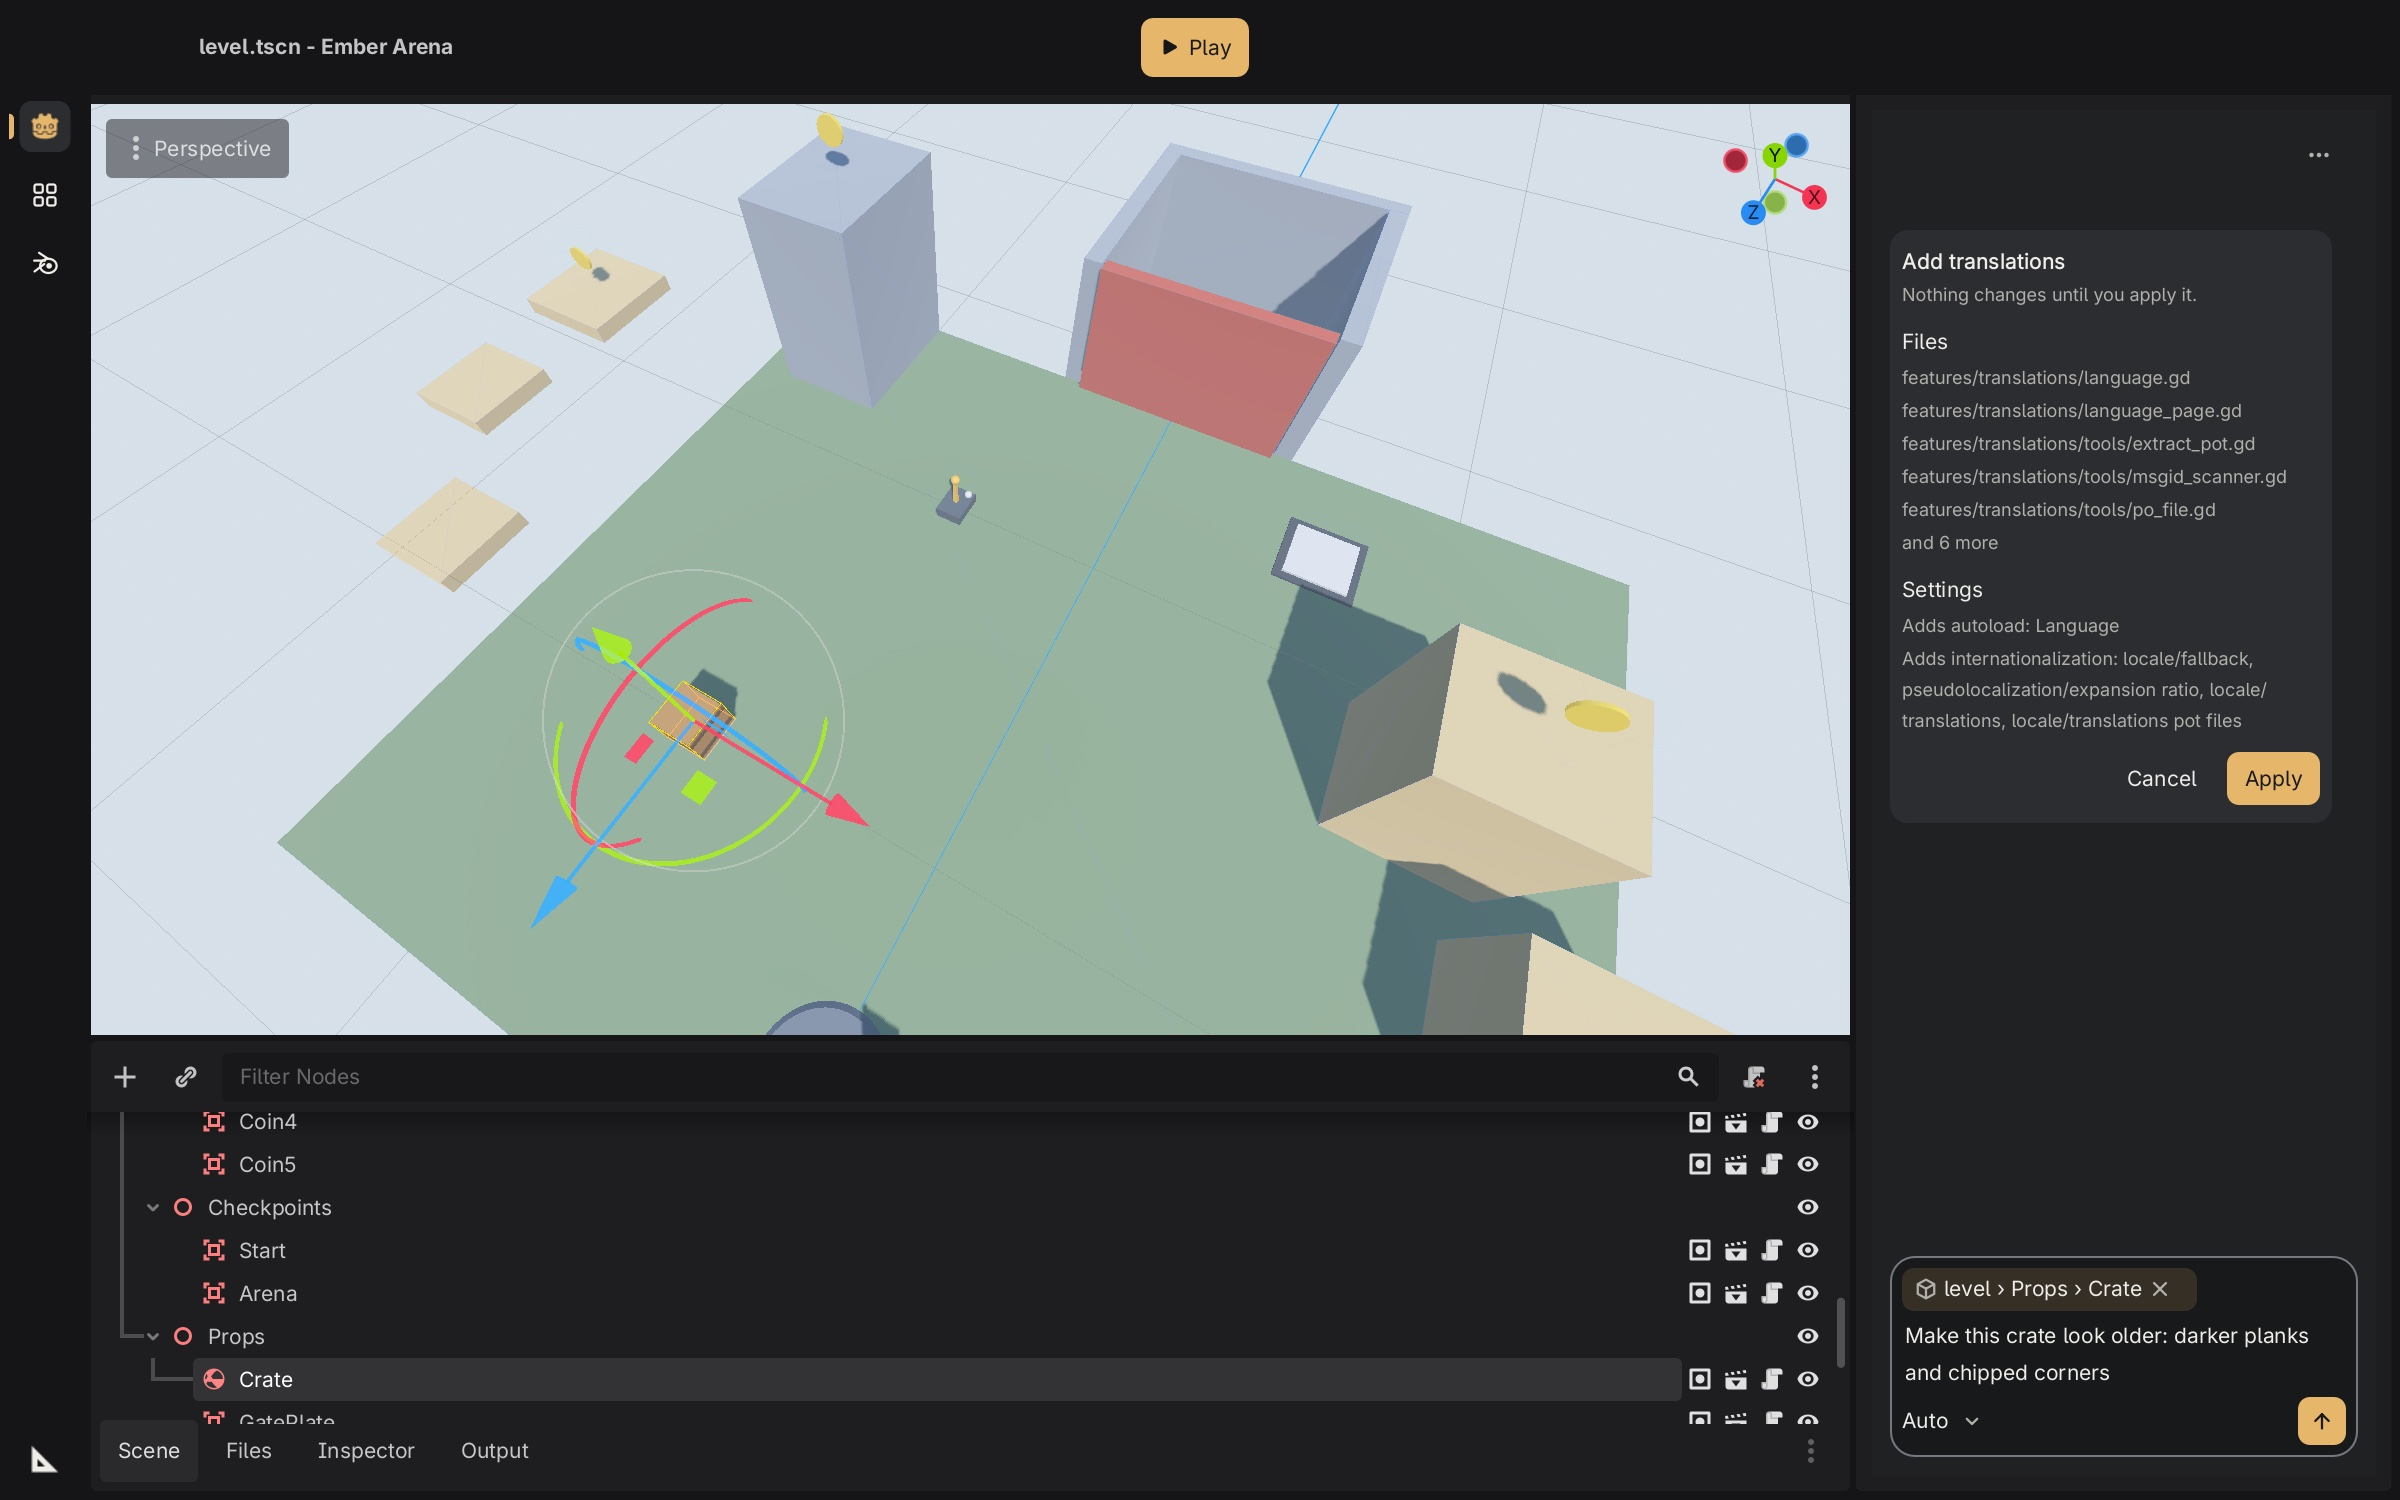
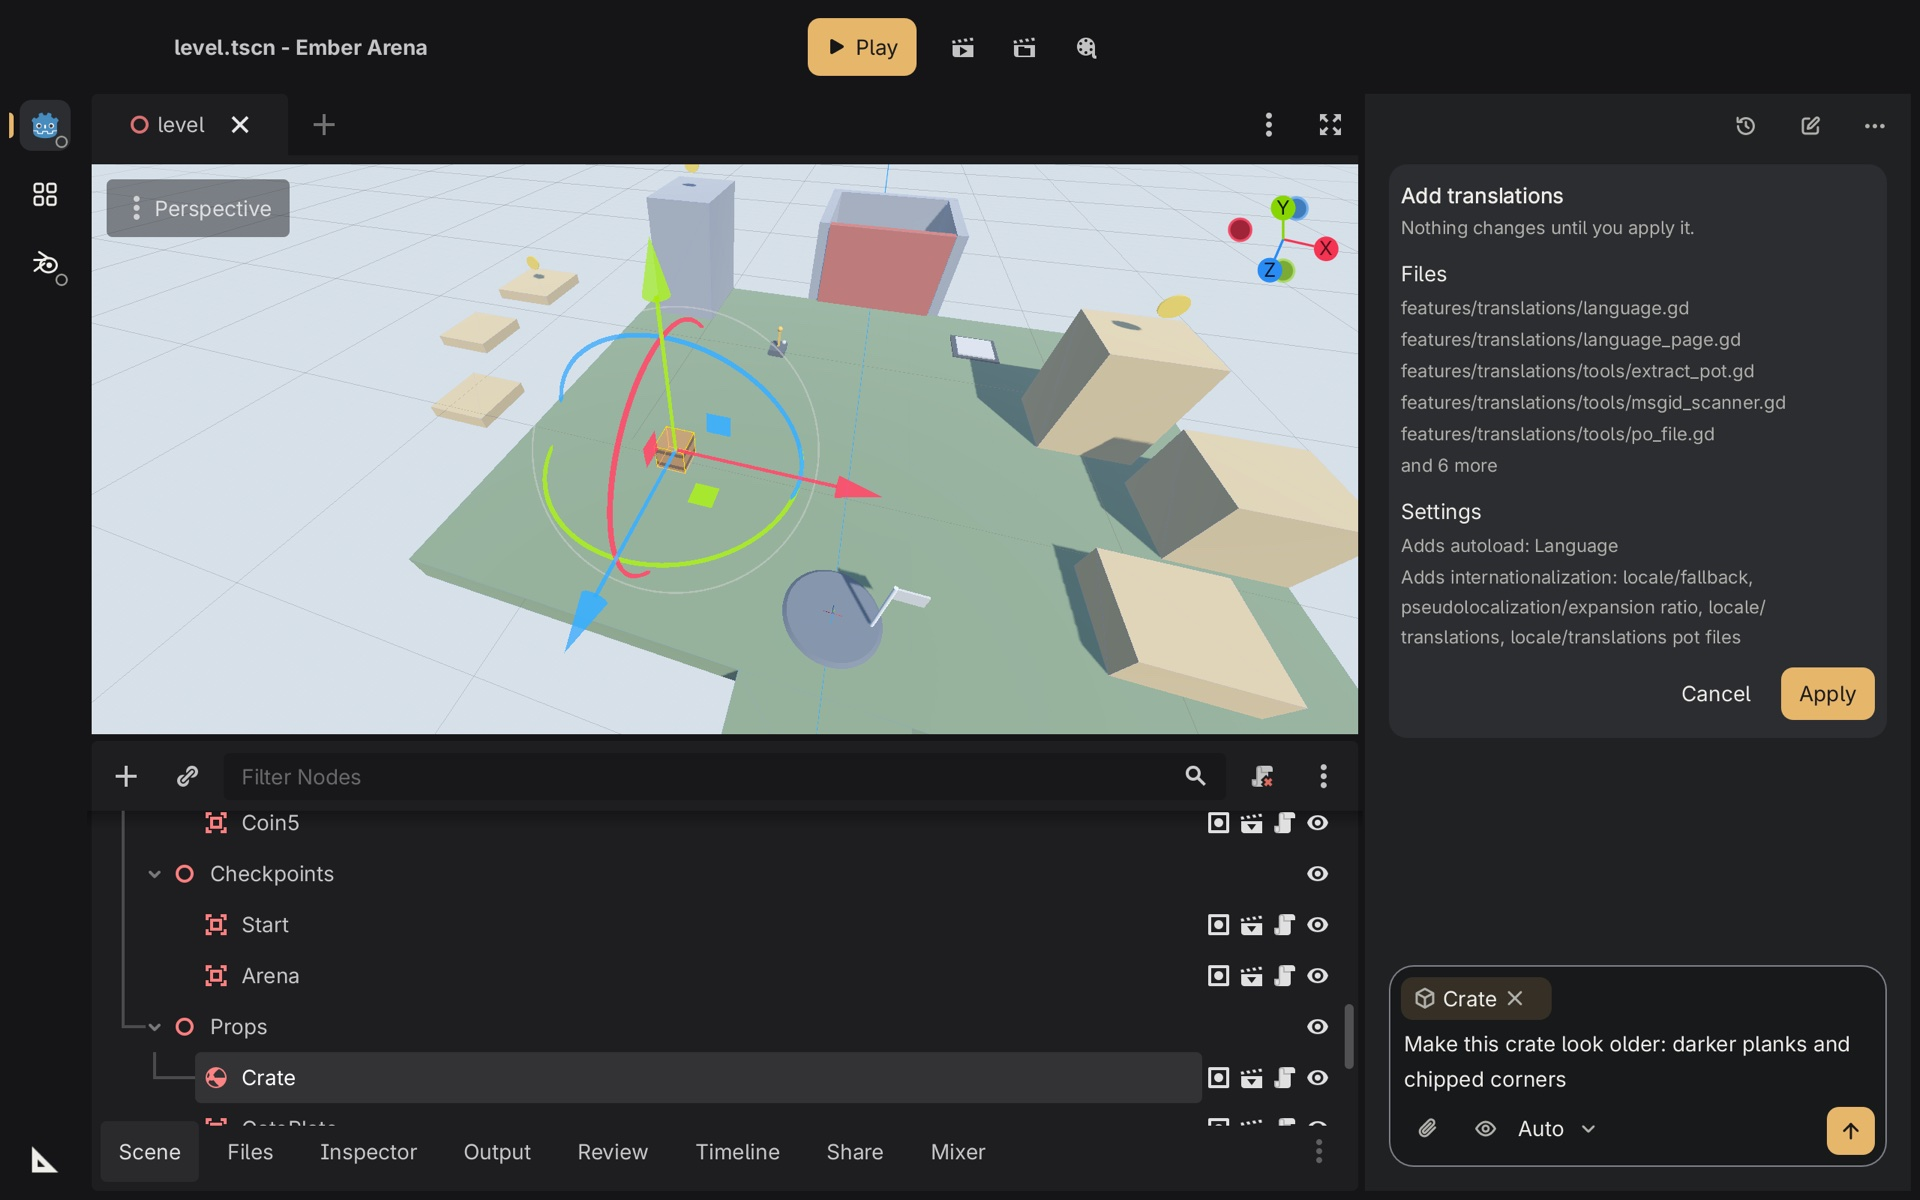
docs: README shows the 0.6 editor and drops the status section

diff --git a/README.md b/README.md
@@ -2,7 +2,7 @@
 
 **Made in the Joinery, not generated.**
 
-![The Joinery editor in its dark theme. The level of the third-person starting point is open in the 3D view, with the crate selected. The scene tree is below it and an icon rail on the left switches between Godot, the asset list and Blender. On the right, the Journeyman sidebar shows a plan card for adding translations, listing the files and settings it would add, with Cancel and Apply. Below the card, the message box holds the selected crate as a chip and a typed request to make the crate look older.](docs/images/joinery-editor.jpg)
+![The Joinery editor in its dark theme. The level of the third-person starting point is open in the 3D view, with the crate selected and its move and rotate handles showing. The scene tree is below it, above tabs for Files, Inspector, Output, Review, Timeline, Share and Mixer, and an icon rail on the left switches between Godot, the asset list and Blender. On the right, the Journeyman sidebar shows a plan card for adding translations, listing the files and settings it would add, with Cancel and Apply. Below the card, the message box holds the selected crate as a chip and a typed request to make the crate look older.](docs/images/joinery-editor.jpg)
 
 *A new third-person game in Joinery: the plan for adding translations waits for
 Apply, and a request about the selected crate is typed but not sent yet.*
@@ -17,25 +17,8 @@ Joinery does not use image, 3D, music or voice generators. Every asset is made
 in a real tool, kept as an editable source file, and has a recipe that rebuilds
 it. Games made with Joinery are plain Godot projects and open in stock Godot.
 
-## Status
-
-Version 0.5. Early software, unsigned builds.
-
-- Tested: the 0.4.0 builds for macOS (Apple Silicon), Linux and Windows passed
-  their editor, review, undo and exported-game checks on native machines, and
-  0.5 runs the same checks when its tag is pushed. On 2026-11-10 every built-in
-  tool passed a real create, edit and export run with networking off, and the
-  recipes from those runs rebuilt their assets
-  ([results](evals/results/tools-working.md)).
-- Tested with a live agent: the full path from a chat request to an accepted
-  Blender model in a Godot scene, with Codex, for 0.1, and day-to-day use with
-  Codex while 0.3 was built. The new parts (submit_for_review, saved chats,
-  images, the Review and Timeline tabs) are tested with fake agents.
-- Not yet verified live: Claude Code, Gemini CLI and opencode. On Windows only
-  Codex is supported.
-
 What changed in this version, and what is still missing:
-[0.5.0 release notes](docs/releases/0.5.0.md).
+[0.6.0 release notes](docs/releases/0.6.0.md).
 
 ## How a change works
 
